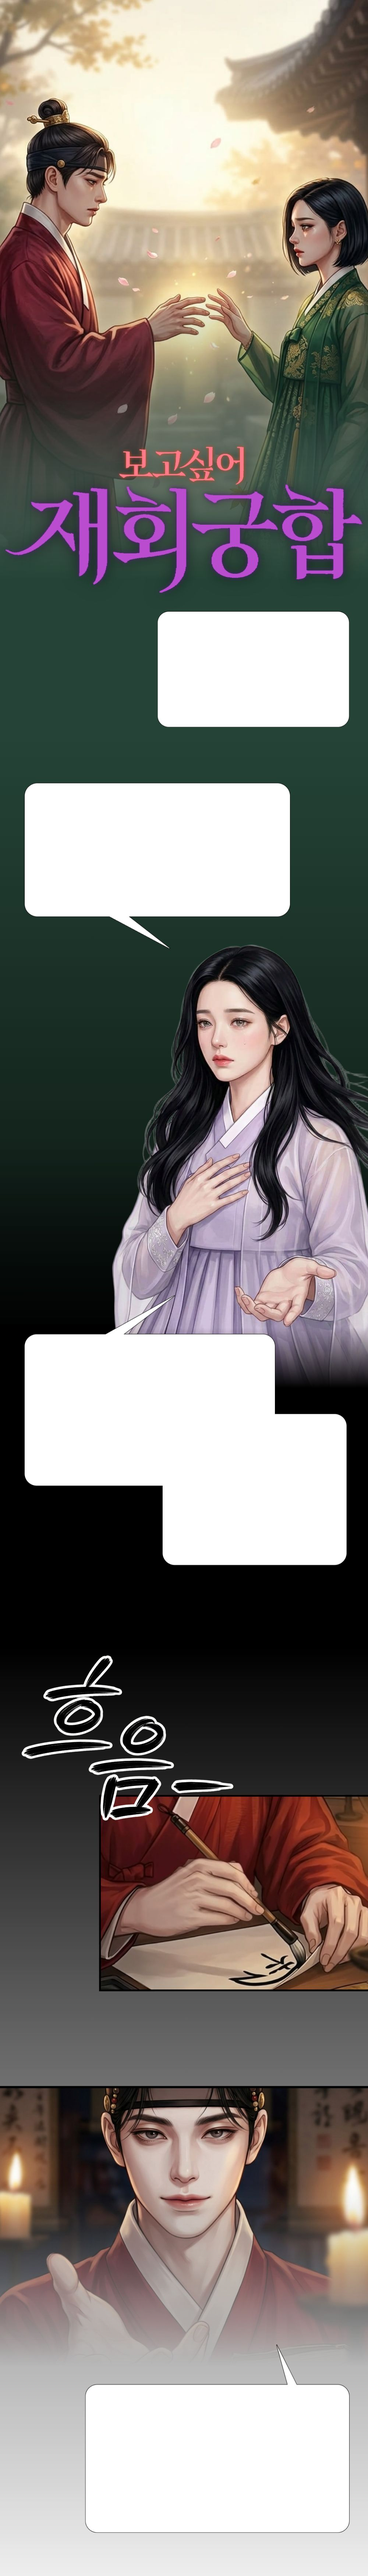
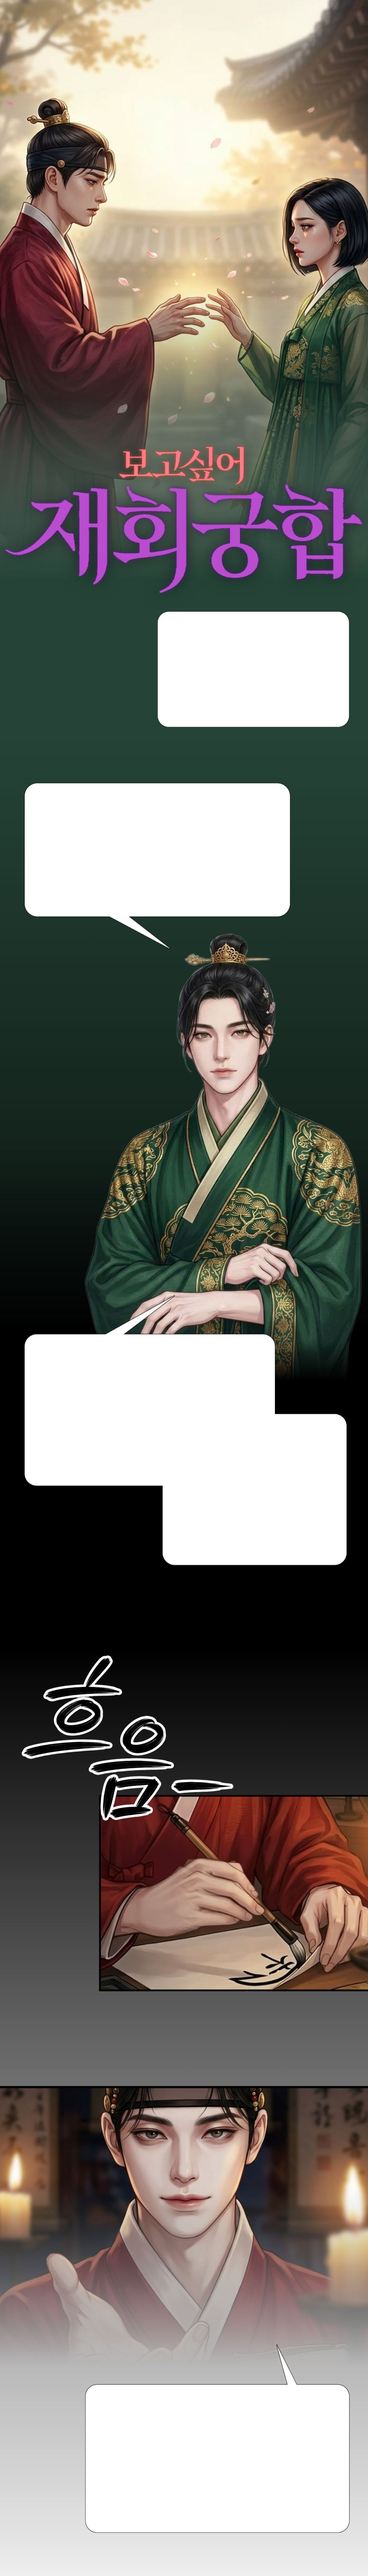
feat(kunghap_jaehwe-checkout): s1/s2 텍스트 문구 채움 및 이름(성 제외) 삽입

Changed region(s): [[0.248, 0.3426, 1.0, 0.5606]]

diff --git a/src/app/(detail)/saju/kunghap_jaehwe/checkout/page.tsx b/src/app/(detail)/saju/kunghap_jaehwe/checkout/page.tsx
@@ -7,6 +7,7 @@ import { calcSaju, type LocalSajuResult } from "@/lib/saju/local-manseryeok";
 import { MyeongsikTable } from "@/components/saju/MyeongsikModal";
 import type { MyeongsikView } from "@/lib/saju/myeongsik-view";
 import { LEGAL_DOC_CLASS, TermsContent, PrivacyContent } from "@/components/legal/legal-content";
+import { stripSurname } from "@/lib/utils/strip-surname";
 
 const CREAM    = "#fdf8f4";
 const WHITE    = "#ffffff";
@@ -117,46 +118,48 @@ function MyeongsikSection({
         <div className="absolute top-0 left-0 right-0 h-16 pointer-events-none z-10" style={{ background: `linear-gradient(to top, transparent, ${WHITE})` }} />
         <img src="/media/checkout/kunghap_jaehwe/s2.jpg" alt="" className="w-full block" />
         <div className="absolute flex flex-col items-center pointer-events-none" style={{ top: "12.9%", left: "50%", transform: "translate(-50%, -50%)", textAlign: "center", whiteSpace: "nowrap", fontFamily: "'GmarketSans', sans-serif", fontWeight: 700 }}>
-          <p style={{ fontSize: 22, color: "#000000", lineHeight: 1.4 }}>텍스트를 입력하시오1</p>
-          <p style={{ fontSize: 22, color: "#000000", lineHeight: 1.4 }}>텍스트를 입력하시오2</p>
+          <p style={{ fontSize: 22, color: "#000000", lineHeight: 1.4 }}>두 사람 사주로 그린</p>
+          <p style={{ fontSize: 22, color: "#000000", lineHeight: 1.4 }}>사주화를 보여주며 시작되오.</p>
         </div>
         <div className="absolute flex flex-col items-center pointer-events-none" style={{ top: "18.9%", left: "50%", transform: "translate(-50%, -50%)", textAlign: "center", whiteSpace: "nowrap", fontFamily: "'GmarketSans', sans-serif", fontWeight: 700 }}>
-          <p style={{ fontSize: 22, color: "#000000", lineHeight: 1.4 }}>텍스트를 입력하시오1</p>
-          <p style={{ fontSize: 22, color: "#000000", lineHeight: 1.4 }}>텍스트를 입력하시오2</p>
+          <p style={{ fontSize: 22, color: "#000000", lineHeight: 1.4 }}>두 사람이 헤어지게 된</p>
+          <p style={{ fontSize: 22, color: "#000000", lineHeight: 1.4 }}>이유가 무엇인지</p>
         </div>
         <div className="absolute flex flex-col items-center pointer-events-none" style={{ top: "27.75%", left: "50%", transform: "translate(-50%, -50%)", textAlign: "center", whiteSpace: "nowrap", fontFamily: "'GmarketSans', sans-serif", fontWeight: 700 }}>
-          <p style={{ fontSize: 22, color: "#000000", lineHeight: 1.4 }}>텍스트를 입력하시오1</p>
-          <p style={{ fontSize: 22, color: "#000000", lineHeight: 1.4 }}>텍스트를 입력하시오2</p>
+          <p style={{ fontSize: 22, color: "#000000", lineHeight: 1.4 }}>두 사람 이별의 상처를</p>
+          <p style={{ fontSize: 22, color: "#000000", lineHeight: 1.4 }}>어떻게 치유해야 할지도</p>
         </div>
         <div className="absolute flex flex-col items-center pointer-events-none" style={{ top: "34.35%", left: "50%", transform: "translate(-50%, -50%)", textAlign: "center", whiteSpace: "nowrap", fontFamily: "'GmarketSans', sans-serif", fontWeight: 700 }}>
-          <p style={{ fontSize: 22, color: "#000000", lineHeight: 1.4 }}>텍스트를 입력하시오1</p>
-          <p style={{ fontSize: 22, color: "#000000", lineHeight: 1.4 }}>텍스트를 입력하시오2</p>
+          <p style={{ fontSize: 22, color: "#000000", lineHeight: 1.4 }}>각자의 사주팔자 글자간</p>
+          <p style={{ fontSize: 22, color: "#000000", lineHeight: 1.4 }}>합하거나 충하는 글자들이 무엇인지</p>
         </div>
         <div className="absolute flex flex-col items-center pointer-events-none" style={{ top: "47.55%", left: "50%", transform: "translate(-50%, -50%)", textAlign: "center", whiteSpace: "nowrap", fontFamily: "'GmarketSans', sans-serif", fontWeight: 700 }}>
-          <p style={{ fontSize: 22, color: "#000000", lineHeight: 1.4 }}>텍스트를 입력하시오1</p>
-          <p style={{ fontSize: 22, color: "#000000", lineHeight: 1.4 }}>텍스트를 입력하시오2</p>
+          <p style={{ fontSize: 22, color: "#000000", lineHeight: 1.4 }}>두 사람 각자의</p>
+          <p style={{ fontSize: 22, color: "#000000", lineHeight: 1.4 }}>미련의 정도까지 알려드리오.</p>
         </div>
         <div className="absolute flex flex-col items-center pointer-events-none" style={{ top: "59.0%", left: "50%", transform: "translate(-50%, -50%)", textAlign: "center", whiteSpace: "nowrap", fontFamily: "'GmarketSans', sans-serif", fontWeight: 700 }}>
-          <p style={{ fontSize: 22, color: "#000000", lineHeight: 1.4 }}>텍스트를 입력하시오1</p>
-          <p style={{ fontSize: 22, color: "#000000", lineHeight: 1.4 }}>텍스트를 입력하시오2</p>
+          <p style={{ fontSize: 22, color: "#000000", lineHeight: 1.4 }}>과연 두 사람이</p>
+          <p style={{ fontSize: 22, color: "#000000", lineHeight: 1.4 }}>다시 만날 가능성이 있을지</p>
         </div>
         <div className="absolute flex flex-col items-center pointer-events-none" style={{ top: "67.7%", left: "50%", transform: "translate(-50%, -50%)", textAlign: "center", whiteSpace: "nowrap", fontFamily: "'GmarketSans', sans-serif", fontWeight: 700 }}>
-          <p style={{ fontSize: 22, color: "#000000", lineHeight: 1.4 }}>텍스트를 입력하시오1</p>
-          <p style={{ fontSize: 22, color: "#000000", lineHeight: 1.4 }}>텍스트를 입력하시오2</p>
+          <p style={{ fontSize: 22, color: "#000000", lineHeight: 1.4 }}>앞으로 12개월간의</p>
+          <p style={{ fontSize: 22, color: "#000000", lineHeight: 1.4 }}>두사람 재회에너지 흐름까지</p>
         </div>
         <div className="absolute flex flex-col items-center gap-1 pointer-events-none" style={{ top: "82.6%", left: "34%", transform: "translate(-50%, -50%)", textAlign: "center", whiteSpace: "nowrap" }}>
-          <p style={{ fontSize: 22, fontWeight: 400, color: "#000000" }}>텍스트를 입력하시오1</p>
-          <p style={{ fontSize: 22, fontWeight: 400, color: "#000000" }}>텍스트를 입력하시오2</p>
-          <p style={{ fontSize: 22, fontWeight: 400, color: "#000000" }}>텍스트를 입력하시오3</p>
+          <p style={{ fontSize: 22, fontWeight: 400, color: "#000000" }}>이뿐이겠소?</p>
+          <p style={{ fontSize: 22, fontWeight: 400, color: "#000000" }}>&nbsp;</p>
+          <p style={{ fontSize: 22, fontWeight: 400, color: "#000000" }}>아주 극히 일부만</p>
+          <p style={{ fontSize: 22, fontWeight: 400, color: "#000000" }}>보여줬을 뿐이오.</p>
         </div>
         <div className="absolute flex flex-col items-center pointer-events-none" style={{ top: "91.6%", left: "50%", transform: "translate(-50%, -50%)", textAlign: "center", whiteSpace: "nowrap", fontFamily: "'GmarketSans', sans-serif", fontWeight: 700 }}>
-          <p style={{ fontSize: 22, color: "#000000", lineHeight: 1.4 }}>텍스트를 입력하시오1</p>
-          <p style={{ fontSize: 22, color: "#000000", lineHeight: 1.4 }}>텍스트를 입력하시오2</p>
+          <p style={{ fontSize: 22, color: "#000000", lineHeight: 1.4 }}>두 사람이 재회를 하게 된다면</p>
+          <p style={{ fontSize: 22, color: "#000000", lineHeight: 1.4 }}>어떤 것들을 준비해야 할지도</p>
         </div>
-        <div className="absolute flex flex-col items-center gap-1 pointer-events-none" style={{ top: "4.1%", left: "65%", transform: "translate(-50%, -50%)", textAlign: "center", whiteSpace: "nowrap" }}>
-          <p style={{ fontSize: 22, fontWeight: 400, color: "#000000" }}>텍스트를 입력하시오1</p>
-          <p style={{ fontSize: 22, fontWeight: 400, color: "#000000" }}>텍스트를 입력하시오2</p>
-          <p style={{ fontSize: 22, fontWeight: 400, color: "#000000" }}>텍스트를 입력하시오3</p>
+        <div className="absolute flex flex-col items-center gap-1 pointer-events-none" style={{ top: "4.5%", left: "65%", transform: "translate(-50%, -50%)", textAlign: "center", whiteSpace: "nowrap" }}>
+          <p style={{ fontSize: 22, fontWeight: 400, color: "#000000" }}>어떤 내용들인지</p>
+          <p style={{ fontSize: 22, fontWeight: 400, color: "#000000" }}>일부만 말해주겠소</p>
+          <p style={{ fontSize: 22, fontWeight: 400, color: "#000000" }}>&nbsp;</p>
+          <p style={{ fontSize: 22, fontWeight: 400, color: "#000000" }}>놀라운 점들이 있소.</p>
         </div>
       </div>
     </div>
@@ -576,27 +579,27 @@ function CheckoutContent() {
           <img src="/media/checkout/kunghap_jaehwe/s1.jpg" alt="" className="w-full block" />
           <div className="absolute bottom-0 left-0 right-0 h-16 pointer-events-none" style={{ background: `linear-gradient(to bottom, transparent, ${WHITE})` }} />
           <div className="absolute flex flex-col items-center gap-1 pointer-events-none" style={{ top: "26.0%", left: "69%", transform: "translate(-50%, -50%)", textAlign: "center", whiteSpace: "nowrap" }}>
-            <p style={{ fontSize: 22, fontWeight: 400, color: "#000000" }}>텍스트를 입력하시오1</p>
-            <p style={{ fontSize: 22, fontWeight: 400, color: "#000000" }}>텍스트를 입력하시오2</p>
+            <p style={{ fontSize: 22, fontWeight: 400, color: "#000000" }}>{`${stripSurname(name)}님과 ${stripSurname(partnerName)}님`}</p>
+            <p style={{ fontSize: 22, fontWeight: 400, color: "#000000" }}>만나서 반갑소.</p>
           </div>
           <div className="absolute flex flex-col items-center gap-1 pointer-events-none" style={{ top: "33%", left: "42%", transform: "translate(-50%, -50%)", textAlign: "center", whiteSpace: "nowrap" }}>
-            <p style={{ fontSize: 22, fontWeight: 400, color: "#000000" }}>텍스트를 입력하시오1</p>
-            <p style={{ fontSize: 22, fontWeight: 400, color: "#000000" }}>텍스트를 입력하시오2</p>
-            <p style={{ fontSize: 22, fontWeight: 400, color: "#000000" }}>텍스트를 입력하시오3</p>
+            <p style={{ fontSize: 22, fontWeight: 400, color: "#000000" }}>소인은,</p>
+            <p style={{ fontSize: 22, fontWeight: 400, color: "#000000" }}>조선의 명리대가</p>
+            <p style={{ fontSize: 22, fontWeight: 400, color: "#000000" }}>홍연이라고 하오.</p>
           </div>
           <div className="absolute flex flex-col items-center gap-1 pointer-events-none" style={{ top: "54.8%", left: "42%", transform: "translate(-50%, -50%)", textAlign: "center", whiteSpace: "nowrap" }}>
-            <p style={{ fontSize: 22, fontWeight: 400, color: "#000000" }}>텍스트를 입력하시오1</p>
-            <p style={{ fontSize: 22, fontWeight: 400, color: "#000000" }}>텍스트를 입력하시오2</p>
-            <p style={{ fontSize: 22, fontWeight: 400, color: "#000000" }}>텍스트를 입력하시오3</p>
+            <p style={{ fontSize: 22, fontWeight: 400, color: "#000000" }}>두 사람 재회궁합을 보기 전에</p>
+            <p style={{ fontSize: 22, fontWeight: 400, color: "#000000" }}>{`${stripSurname(name)}님과 ${stripSurname(partnerName)}님의 사주팔자가`}</p>
+            <p style={{ fontSize: 22, fontWeight: 400, color: "#000000" }}>어떻게 생겼는지 봐야하오.</p>
           </div>
           <div className="absolute flex flex-col items-center gap-1 pointer-events-none" style={{ top: "58.5%", left: "70%", transform: "translate(-50%, -50%)", textAlign: "center", whiteSpace: "nowrap" }}>
-            <p style={{ fontSize: 22, fontWeight: 400, color: "#000000" }}>텍스트를 입력하시오1</p>
-            <p style={{ fontSize: 22, fontWeight: 400, color: "#000000" }}>텍스트를 입력하시오2</p>
+            <p style={{ fontSize: 22, fontWeight: 400, color: "#000000" }}>자,</p>
+            <p style={{ fontSize: 22, fontWeight: 400, color: "#000000" }}>어디보자...</p>
           </div>
           <div className="absolute flex flex-col items-center gap-1 pointer-events-none" style={{ top: "95.5%", left: "60%", transform: "translate(-50%, -50%)", textAlign: "center", whiteSpace: "nowrap" }}>
-            <p style={{ fontSize: 22, fontWeight: 400, color: "#000000" }}>텍스트를 입력하시오1</p>
-            <p style={{ fontSize: 22, fontWeight: 400, color: "#000000" }}>텍스트를 입력하시오2</p>
-            <p style={{ fontSize: 22, fontWeight: 400, color: "#000000" }}>텍스트를 입력하시오3</p>
+            <p style={{ fontSize: 22, fontWeight: 400, color: "#000000" }}>자, 한번 보시오.</p>
+            <p style={{ fontSize: 22, fontWeight: 400, color: "#000000" }}>{`${stripSurname(name)}님과 ${stripSurname(partnerName)}님의`}</p>
+            <p style={{ fontSize: 22, fontWeight: 400, color: "#000000" }}>사주팔자 여덟글자요.</p>
           </div>
         </div>
 
@@ -611,8 +614,8 @@ function CheckoutContent() {
           <img src="/media/checkout/kunghap_jaehwe/s3.jpg" alt="" className="w-full block" />
           <div className="absolute bottom-0 left-0 right-0 h-16 pointer-events-none" style={{ background: `linear-gradient(to bottom, transparent, ${WHITE})` }} />
           <div className="absolute flex flex-col items-center pointer-events-none" style={{ top: "2.5%", left: "50%", transform: "translate(-50%, -50%)", textAlign: "center", whiteSpace: "nowrap", fontFamily: "'GmarketSans', sans-serif", fontWeight: 700 }}>
-            <p style={{ fontSize: 22, color: "#000000", lineHeight: 1.4 }}>텍스트를 입력하시오1</p>
-            <p style={{ fontSize: 22, color: "#000000", lineHeight: 1.4 }}>텍스트를 입력하시오2</p>
+            <p style={{ fontSize: 22, color: "#000000", lineHeight: 1.4 }}>두 사람 재회의 모든 것을</p>
+            <p style={{ fontSize: 22, color: "#000000", lineHeight: 1.4 }}>낱낱히 파헤쳐 드리겠소.</p>
           </div>
         </div>
 
